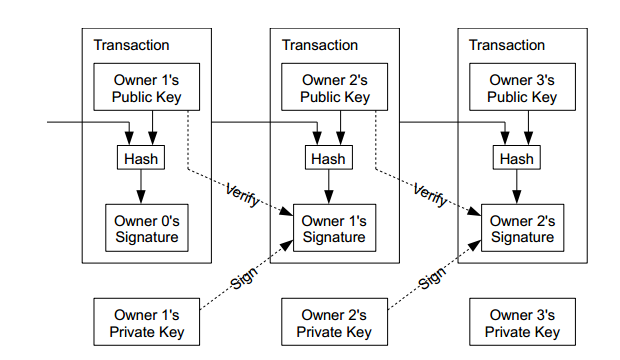
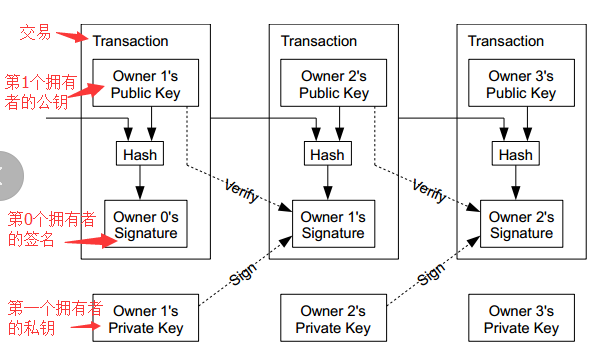
更新中文注释

diff --git a/区块链/01-比特币白皮书.md b/区块链/01-比特币白皮书.md
@@ -2,14 +2,38 @@
 
 ## 01 比特币是什么？
 
-比特币是一种**点对点技术实现的电子现金系统**，它使得在线支付能够直接由一方发起并支付给另外一方，中间不需要通过任何的金融机构。
+比特币是一种**去中心化的点对点技术实现的电子支付系统**，它使得在线支付能够直接由一方发起并支付给另外一方，中间不需要通过任何的金融机构。
 
 白皮书的摘要说明了比特币的运行原理，如下:
 
-> **摘要**：本文提出了一种完全通过点对点技术实现的电子现金系统，它使得在线支付能够直接由一方发起并支付给另外一方，中间不需要通过任何的金融机构。虽然数字签名（Digital signatures）部分解决了这个问题，但是如果仍然需要第三方的支持才能防止双重支付（double-spending）的话，那么这种系统也就失去了存在的价值。我们在此提出一种解决方案，使现金系统在点对点的环境下运行，并防止双重支付问题。该网络通过随机散列（hashing）对全部交易加上时间戳（timestamps），将它们合并入一个不断延伸的基于随机散列的工作量证明（proof-of-work）的链条作为交易记录，除非重新完成全部的工作量证明，形成的交易记录将不可更改。最长的链条不仅将作为被观察到的事件序列的证明，而且被看做是来自CPU计算能力最大的池。只要大多数的CPU计算能力都没有打算合作起来对全网进行攻击，那么诚实的节点将会生成最长的、超过攻击者的链条。这个系统本身需要的基础设施非常少。信息尽最大努力在全网传播即可，节点可以随时离开和重新加入网络，并将最长的工作量证明链条作为在该节点离线期间发生的交易的证明。
+> **摘要**：一个真正的的点对点的电子现金应该允许从发起方直接在线支付给对方，而不需要通过第三方的金融服务机构。现有的数字签名技术虽然提供了部分解决方案，但如果还需要经过一个可以信任的第三方机构来防止电子现金的“双重支付”，那就丧失了电子现金给人类带来的最大好处。我们针对电子现金会出现的“双重支付”问题，用点对点的网络技术提供了一个解决方案。该网络通过给交易记录打上时间戳，并通过哈希对其加密，然后将其并入一个不断增长的哈希记录所组成的链条文件中，以此形成一个新的交易记录，这个哈希记录链条文件（以下简称链条文件）是由一个需要证明工作量的系统网路所提供存储和计算服务的。没有基于工作量证明的系统网络来重新完成所有的工作量证明，一个已经形成的记录是不能被修改的。基于工作量证明的系统理念，最长的链条文件不仅仅是提供这些工作量序列事件记录的证据，而且它也是由最大的CPU处理能力池产生的。只要由计算机节点控制的大部分CPU处理能力不联合攻击网络本身，它们的处理能力将超过攻击者，并生成最大的链条文件。
 
-## 02 关键技术
+中本聪抛出的问题，”**一个需要第三方支持的点对点电子现金系统是没有价值的**“，白皮书提供了一个解决方案，且说明了解决这个问题的主要方式和优势。
 
-1. 如何解决双重支付的问题：
+## 02 关键问题
+
+1.如何**去中心化**：
+
+去中心化依靠目前p2p技术已经有比较成熟的解决方案了，因此主要重点在于如何解决双花问题。
+
+2.如何解决“**双花问题**”：
+
+- 什么是双花问题？
+
+    如果同一笔钱（数字货币）被重复支付两次，就是双花问题（双重支付）。
+
+- 传统方式如何解决？
+
+    传统货币黄金、白银无法复制，因此并不存在。纸币有通过防伪码,借助第三方机构进行监督，如果有人制造假币，会有法律进行惩罚。
+
+- 比特币的解决方案
+
+    要解决“双花问题”则必须记账核对,那么如何在一个没有中心的p2p系统中记账又受到认同呢，比特币引入了基于时间戳的随机散列，并且让其形成前后文相关的序列。
+
+    借助不对称加密算法，通过公钥可以加密数据或验证数据，通过私钥可以解密数据或对数据签名，如此循环往复形成了一个**交易链条（即区块链）**通过公开公钥就可以知道这条记录的来路，直至最终到最初的所有者。
+
+## 03 交易流程
 
 ![image](https://raw.githubusercontent.com/shepherddog/LearningNote/master/PIC/bitcoin_transactions.png)
+
+上图所示有几个关键概念
